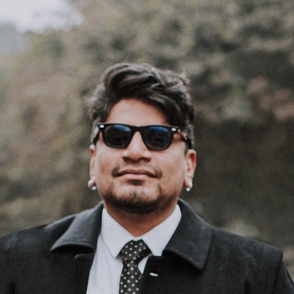
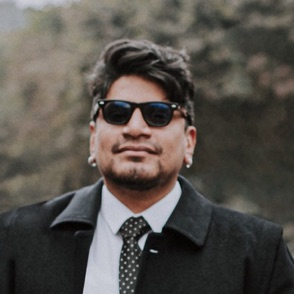
readme updated

diff --git a/src/data/organizers.ts b/src/data/organizers.ts
@@ -1,0 +1,31 @@
+import type { Localized } from '@i18n/utils';
+import { asset } from '@lib/assets';
+
+export interface Organizer {
+  name: string;
+  role: string;
+  company?: Localized;
+  photo: string;
+  /** Perfil público (LinkedIn). */
+  url: string;
+}
+
+const same = (text: string): Localized => ({ 'es-pe': text, en: text });
+
+/** Equipo organizador del capítulo; cargo, empresa y foto tomados de LinkedIn (oct. 2026). */
+export const organizers: Organizer[] = [
+  {
+    name: 'Josua Castro',
+    role: 'Platform Engineer · Golden Kubestronaut · KCD Lima Organizer',
+    company: same('Banco de Crédito del Perú'),
+    photo: asset('team/josua-castro.jpg'),
+    url: 'https://www.linkedin.com/in/josuacvga/',
+  },
+  {
+    name: 'Ronald Requena',
+    role: 'CTO · CNCF Ambassador',
+    company: same('Rumbo'),
+    photo: asset('team/ronald-requena.jpg'),
+    url: 'https://www.linkedin.com/in/rcronald/',
+  },
+];

diff --git a/README.md b/README.md
@@ -32,6 +32,7 @@ src/
 │   ├── site.ts           # Enlaces de la comunidad (WhatsApp, LinkedIn…) y de platformengineering.org
 │   ├── events.ts         # Eventos (próximos/pasados se calculan al compilar)
 │   ├── speakers.ts       # Speakers (fotos, cargo, charla, LinkedIn)
+│   ├── organizers.ts     # Equipo organizador (sección "Quiénes organizamos" en Comunidad)
 │   └── resources.ts      # Recursos curados y temas del filtro
 ├── lib/                  # asset() para rutas con base y datos estructurados (JSON-LD)
 ├── layouts/              # Estructura HTML común (head/SEO, header, footer, diálogo Únete)
@@ -60,7 +61,8 @@ URLs resultantes: `/<base>/es-pe/`, `/<base>/en/events/`, `/<base>/es-pe/events/
 
 - **Enlaces de la comunidad** (`src/data/site.ts`): LinkedIn y el call for speakers (Sessionize) están configurados; la banda "¿Quieres dar una charla?" (inicio y lista de eventos), la nota en el detalle de cada evento próximo y la tarjeta "Da una charla" de Comunidad enlazan a él. "Sé sede o sponsor" enlaza al correo de contacto (`contactEmail`, info@platformengineering.pe). WhatsApp, Meetup y YouTube siguen en `null` y se muestran como "Próximamente".
 - **Eventos** (`src/data/events.ts`): KubeFest #1 (datos de CNCF Community Groups), KubeFest #02 (datos de su página en Eventbrite) y KubeFest #3 (datos de su página en Luma). No hay contenido de ejemplo.
-- **Speakers** (`src/data/speakers.ts`): los de KubeFest #1, #02 y #3. Las fotos de KubeFest #02 se cargan desde el CDN de Eventbrite, así que dejarán de verse si el organizador las cambia; las demás están en `public/speakers/` (294×294, tomadas de LinkedIn y CNCF Community Groups). Quien no tiene foto muestra sus iniciales.
+- **Speakers** (`src/data/speakers.ts`): los de KubeFest #1, #02 y #3. Las fotos de KubeFest #02 se cargan desde el CDN de Eventbrite, así que dejarán de verse si el organizador las cambia; las demás están en `public/speakers/` (294×294, tomadas de LinkedIn). Quien no tiene foto muestra sus iniciales.
+- **Organizadores** (`src/data/organizers.ts`): Josua Castro y Ronald Requena, con fotos en `public/team/` (294×294, de LinkedIn).
 - **Recursos** (`src/data/resources.ts`): enlaces verificados a platformengineering.org, con resumen propio en español.
 
 Los eventos se clasifican en próximos/pasados **al compilar**. El workflow de despliegue corre también cada día a las 00:10 de Lima (`schedule` en `deploy.yml`), así que el sitio se actualiza solo la madrugada siguiente a cada evento; si se necesita antes, basta un push o *Run workflow* en GitHub Actions.
